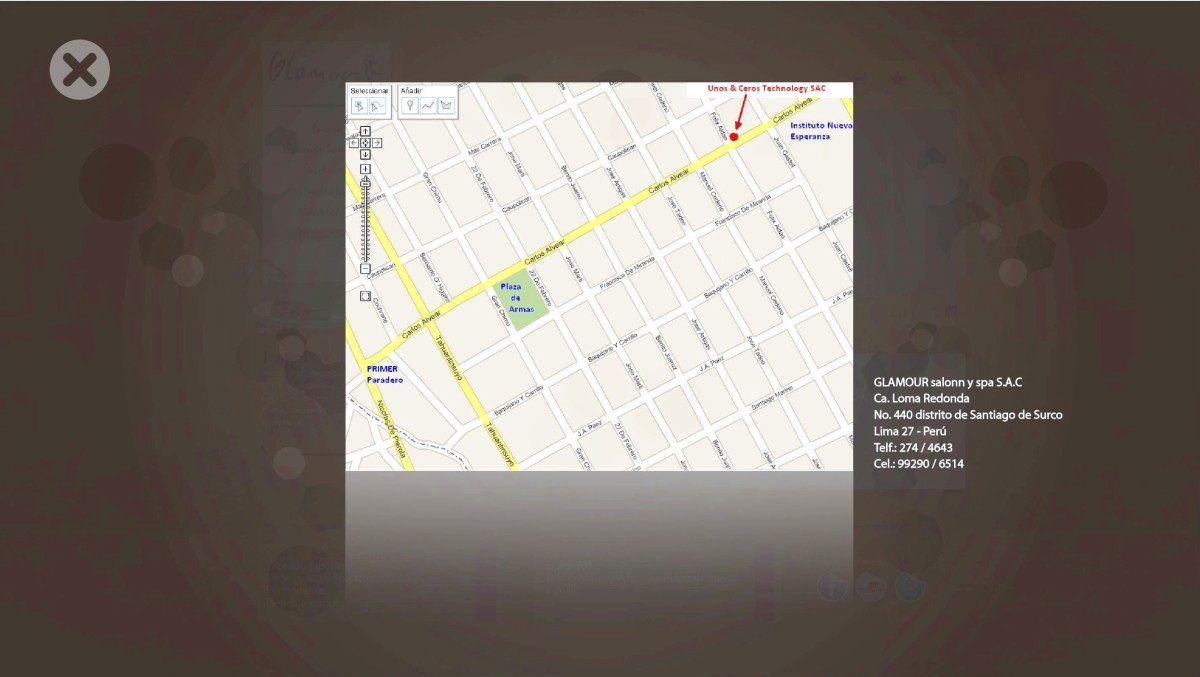
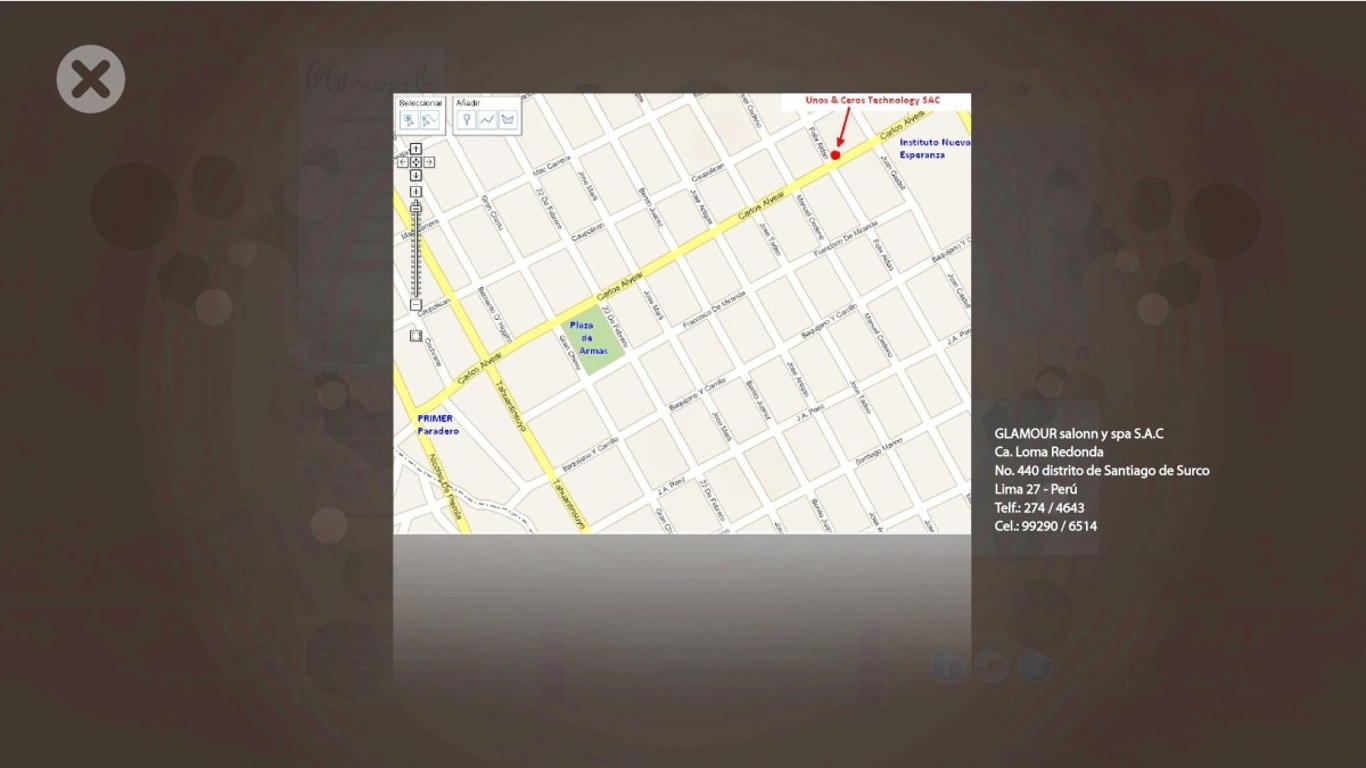
agregada reflexión

diff --git a/js/jquery.lightbox-0.5.js b/js/jquery.lightbox-0.5.js
@@ -27,10 +27,10 @@
 			// Configuration related to navigation
 			fixedNavigation:		false,		// (boolean) Boolean that informs if the navigation (next and prev button) will be fixed or not in the interface.
 			// Configuration related to images
-			imageLoading:			'',		// (string) Path and the name of the loading icon
-			imageBtnPrev:			'images/lightbox-btn-prev.gif',			// (string) Path and the name of the prev button image
-			imageBtnNext:			'images/lightbox-btn-next.gif',			// (string) Path and the name of the next button image
-			imageBtnClose:			'images/lightbox-btn-close.gif',		// (string) Path and the name of the close btn
+			imageLoading:			'images/loading.gif',		// (string) Path and the name of the loading icon
+			imageBtnPrev:			'',			// (string) Path and the name of the prev button image
+			imageBtnNext:			'',			// (string) Path and the name of the next button image
+			imageBtnClose:			'',		// (string) Path and the name of the close btn
 			imageBlank:				'',			// (string) Path and the name of a blank image (one pixel)
 			// Configuration related to container image box
 			containerBorderSize:	0,			// (integer) If you adjust the padding in the CSS for the container, #lightbox-container-image-box, you will need to update this value
@@ -124,18 +124,15 @@
 		 *
 		 */
 		function _set_interface() {
-            var backurl = 'url("../images/modal-background.png")';
 			// Apply the HTML markup into body tag
-			$('body').append('<div id="jquery-overlay"></div><div id="jquery-lightbox"><div id="lightbox-container-image-box"><div id="lightbox-container-image"><img id="lightbox-image"><div style="" id="lightbox-nav"><a href="#" id="lightbox-nav-btnPrev"></a><a href="#" id="lightbox-nav-btnNext"></a></div><div id="lightbox-loading"><a href="#" id="lightbox-loading-link"><img src="' + settings.imageLoading + '"></a></div></div></div><div id="lightbox-container-image-data-box"><div id="lightbox-container-image-data"><div id="lightbox-image-details"><span id="lightbox-image-details-caption"></span><span id="lightbox-image-details-currentNumber"></span></div><div id="lightbox-secNav"><a href="#" id="lightbox-secNav-btnClose"><img src="' + settings.imageBtnClose + '"></a></div></div></div></div>');	
+			$('body').append('<div id="jquery-overlay"></div><div id="jquery-lightbox"><div id="lightbox-container-image-box"><div id="lightbox-container-image"><img id="lightbox-image" class="reflect"><div style="" id="lightbox-nav"><a href="#" id="lightbox-nav-btnPrev"></a><a href="#" id="lightbox-nav-btnNext"></a></div><div id="lightbox-loading"><a href="#" id="lightbox-loading-link"><img src="' + settings.imageLoading + '"></a></div></div></div><div id="lightbox-container-image-data-box"><div id="lightbox-container-image-data"><div id="lightbox-image-details"><span id="lightbox-image-details-caption"></span><span id="lightbox-image-details-currentNumber"></span></div><div id="lightbox-secNav"><a href="#" id="lightbox-secNav-btnClose"><img src="' + settings.imageBtnClose + '"></a></div></div></div></div>');	
 			// Get page sizes
 			var arrPageSizes = ___getPageSize();
 			// Style overlay and show it
 			$('#jquery-overlay').css({
-                background:         backurl,
 				width:				arrPageSizes[0],
 				height:				arrPageSizes[1]
 			}).fadeIn();
-            console.log(backurl);
 			// Get page scroll
 			var arrPageScroll = ___getPageScroll();
 			// Calculate top and left offset for the jquery-lightbox div object and show it

diff --git a/content/contactos.html b/content/contactos.html
@@ -4,23 +4,23 @@
                                 <form name="contact" action="">
                                     <div id="form-left">
                                         <label for="nombre" id="nombre_label">Nombre: </label>
-                                        <input type="text" name="nombre" id="nombre" size="40" value="" class="text-input" />
+                                        <input type="text" name="nombre" id="nombre" size="30" value="" class="text-input" />
                                         <label class="error" for="nombre" id="nombre_error">Este campo es requerido.</label>
 
                                         <label for="apellidos" id="apellidos_label">Apellidos: </label>
-                                        <input type="text" name="apellidos" id="apellidos" size="40" value="" class="text-input" />
+                                        <input type="text" name="apellidos" id="apellidos" size="30" value="" class="text-input" />
                                         <label class="error" for="apellidos" id="apellidos_error">Este campo es requerido.</label>
 
                                         <label for="telefono" id="telefono_label">Teléfono: </label>
-                                        <input type="text" name="telefono" id="telefono" size="40" value="" class="text-input" />
+                                        <input type="text" name="telefono" id="telefono" size="30" value="" class="text-input" />
                                         <label class="error" for="telefono" id="telefono_error">Debe ingresar un teléfono válido.</label>
 
                                         <label for="direccion" id="direccion_label">Dirección: </label>
-                                        <input type="text" name="direccion" id="direccion" size="40" value="" class="text-input" />
+                                        <input type="text" name="direccion" id="direccion" size="30" value="" class="text-input" />
                                         <label class="error" for="direccion" id="direccion_error">Debe ingresar una dirección válida.</label>
 
                                         <label for="email" id="email_label">Email: </label>
-                                        <input type="text" name="email" id="email" size="40" value="" class="text-input" />
+                                        <input type="text" name="email" id="email" size="30" value="" class="text-input" />
                                         <label class="error" for="email" id="email_error">Este campo es requerido.</label>
                                     </div>
                                     <div id="form-right">

diff --git a/css/jquery.lightbox-0.5.css b/css/jquery.lightbox-0.5.css
@@ -12,12 +12,15 @@
  * @example Visit http://leandrovieira.com/projects/jquery/lightbox/ for more informations about this jQuery plugin
  */
 #jquery-overlay {
+        background: url("../images/modal-background.png");
 	position: absolute;
 	top: 0;
 	left: 0;
 	z-index: 90;
 	width: 100%;
 	height: 500px;
+        opacity:0.95;
+        filter:alpha(opacity=95); /* For IE8 and earlier */
 }
 #jquery-lightbox {
 	position: absolute;
@@ -27,16 +30,18 @@
 	z-index: 100;
 	text-align: center;
 	line-height: 0;
+        overflow: visible;
 }
 #jquery-lightbox a img { border: none; }
 #lightbox-container-image-box {
 	position: relative;
-	background-color: #696969;
+	background-color: #262626;
 	width: 550px;
 	height: 550px;
 	margin: 0 auto;
+        overflow: visible;
 }
-#lightbox-container-image { }
+#lightbox-container-image { overflow: visible; }
 #lightbox-loading {
 	position: absolute;
 	top: 40%;
@@ -45,6 +50,8 @@
 	width: 100%;
 	text-align: center;
 	line-height: 0;
+        opacity:0.95;
+        filter:alpha(opacity=95); /* For IE8 and earlier */
 }
 #lightbox-nav {
 	position: absolute;
@@ -72,15 +79,15 @@
 }
 #lightbox-container-image-data-box {
 	font: 10px Verdana, Helvetica, sans-serif;
-	background-color: #696969;
 	margin: 0 auto;
 	line-height: 1.4em;
-	overflow: auto;
 	width: 100%;
+        overflow: visible;
 }
 #lightbox-container-image-data {
 	padding: 0 10px; 
-	color: #696969; 
+	color: #262626;
+        overflow: visible;
 }
 #lightbox-container-image-data #lightbox-image-details { 
 	width: 70%; 
@@ -94,7 +101,11 @@
 	padding-bottom: 1.0em;	
 }			
 #lightbox-secNav-btnClose {
-	width: 66px; 
-	float: right;
-	padding-bottom: 0.7em;	
+    background: url(../images/sprites.png) no-repeat;
+    position: absolute;
+    top: -43px;
+    left: 56px;
+    background-position: -130px -838px;
+    width: 70px;
+    height: 70px;
 }

diff --git a/js/reflection.js b/js/reflection.js
@@ -1,0 +1,11 @@
+/*!
+	reflection.js for jQuery v1.1
+	(c) 2006-2011 Christophe Beyls <http://www.digitalia.be>
+	MIT-style license.
+*/
+(function(a){a.fn.extend({reflect:function(b){b=a.extend({height:1/3,opacity:0.5},b);return this.unreflect().each(function(){var c=this;if(/^img$/i.test(c.tagName)){function d(){var g=c.width,f=c.height,l,i,m,h,k;i=Math.floor((b.height>1)?Math.min(f,b.height):f*b.height);l=a("<canvas />")[0];if(l.getContext){h=l.getContext("2d");try{a(l).attr({width:g,height:i});h.save();h.translate(0,f-1);h.scale(1,-1);h.drawImage(c,0,0,g,f);h.restore();h.globalCompositeOperation="destination-out";k=h.createLinearGradient(0,0,0,i);k.addColorStop(0,"rgba(255, 255, 255, "+(1-b.opacity)+")");k.addColorStop(1,"rgba(255, 255, 255, 1.0)");h.fillStyle=k;h.rect(0,0,g,i);h.fill()}catch(j){return}}else{if(!a.browser.msie){return}l=a("<img />").attr("src",c.src).css({width:g,height:f,marginBottom:i-f,filter:"FlipV progid:DXImageTransform.Microsoft.Alpha(Opacity="+(b.opacity*100)+", FinishOpacity=0, Style=1, StartX=0, StartY=0, FinishX=0, FinishY="+(i/f*100)+")"})[0]}a(l).css({display:"block",border:0});m=a(/^a$/i.test(c.parentNode.tagName)?"<span />":"<div />").insertAfter(c).append([c,l])[0];m.className=c.className;a.data(c,"reflected",m.style.cssText=c.style.cssText);a(m).css({width:g,height:f+i,overflow:"hidden"});c.style.cssText="display: block; border: 0px";c.className="reflected"}if(c.complete){d()}else{a(c).load(d)}}})},unreflect:function(){return this.unbind("load").each(function(){var c=this,b=a.data(this,"reflected"),d;if(b!==undefined){d=c.parentNode;c.className=d.className;c.style.cssText=b;a.removeData(c,"reflected");d.parentNode.replaceChild(c,d)}})}})})(jQuery);
+
+// AUTOLOAD CODE BLOCK (MAY BE CHANGED OR REMOVED)
+jQuery(function($) {
+	$("img.reflect").reflect({/* Put custom options here */});
+});

diff --git a/content/ubiquenos.html b/content/ubiquenos.html
@@ -14,8 +14,13 @@
                                 <a href="images/croquis-big.jpg"><img src="images/croquis-small.png"/></a>
                             </div>
                         </div>
-                        <script type="text/javascript">                        
-                            $(function() {
-                                $('#croquis-small a').lightBox({fixedNavigation:true});
-                            });               
+                        <script type="text/javascript">
+                            $(function(){
+                                $('#croquis-small a').lightBox({fixedNavigation:false});
+                            })
+                            $('#croquis-small a img').on('click', function(e){
+                                setTimeout(function(){
+                                    $("img.reflect").reflect({/* Put custom options here */});
+                                }, 1000)
+                            });
                         </script>

diff --git a/index.php b/index.php
@@ -13,6 +13,7 @@ else $option = '';
         <link type="text/css" href="css/styles.css" rel="stylesheet" media="all" />
         <link type="text/css" href="css/sprites.css" rel="stylesheet" media="all" />
         <link type="text/css" href="css/jScrollPane.css" rel="stylesheet" media="all" />
+        <link rel="stylesheet" type="text/css" href="css/jquery.lightbox-0.5.css" media="screen" />
         <style type="text/css" id="page-css">
             /* Styles specific to this particular page */
             .scroll-pane {
@@ -22,9 +23,9 @@ else $option = '';
                 overflow: auto;
             }
         </style>
-        <!-- latest jQuery direct from google's CDN -->
-        <script type="text/javascript" src="js/jquery.js"></script>
+        <script type="text/javascript" src="js/jquery-1.8.2.min.js"></script>
         <script type="text/javascript" src="js/jquery.lightbox-0.5.js"></script>
+        <script type="text/javascript" src="js/reflection.js"></script>
         <!-- the mousewheel plugin -->
         <script type="text/javascript" src="js/jquery.mousewheel.js"></script>
         <!-- the jScrollPane script -->
@@ -38,7 +39,6 @@ else $option = '';
                 });
             });
         </script>
-<link rel="stylesheet" type="text/css" href="css/jquery.lightbox-0.5.css" media="screen" />
     </head>
     
     <body>
@@ -84,11 +84,11 @@ else $option = '';
                         <a href="/ubiquenos"><div id="s-7" class="sprite s-7<?php if ($option == 'ubiquenos') { ?>-active<?php } ?>"></div></a>
                     </div>
                     <div id="container">
-                        <?php
-                            if ($option == '') $require = 'inicio';
-                            else $require = $option;
-                            require_once 'content/' . $require . '.html';
-                        ?>
+<?php
+                        if ($option == '') $require = 'inicio';
+                        else $require = $option;
+                        require_once 'content/' . $require . '.html';
+?>
                     </div>
                 </div>
             </div>
